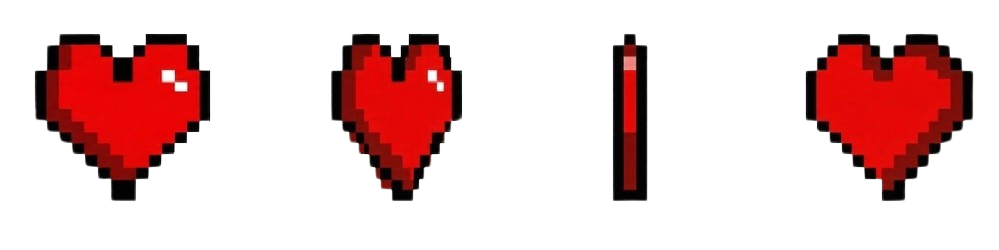
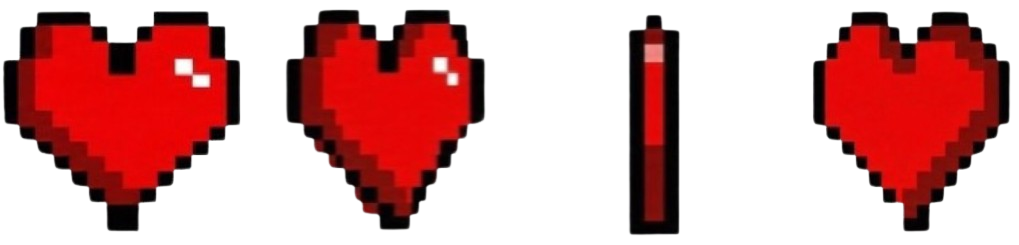
rescaling hp size

diff --git a/Douner/item.c b/Douner/item.c
@@ -5,20 +5,51 @@
 // 1. Data-Driven Configuration: Everything about an item is defined here.
 // To add a new item, just add an entry to this table and an enum value.
 ItemTypeData itemTypes[ITEM_MAX_TYPE] = {
-    [ITEM_STAR] = { "star.png", NULL, 4, 0.4f, 0, 10, 120, NULL },
-    [ITEM_HP] = { "hp.png",   NULL, 4, 0.3f, 20, 0, 300, NULL }
+    [ITEM_STAR] = { "star.png", NULL, 4, 0.4f, 0, 10, 100, NULL },
+    [ITEM_HP] = { "hp.png",   NULL, 4, 0.2f, 20, 0, 200, NULL }
 };
 
 Item items[ITEM_MAX];
 extern long frames;
 
-// Private Effect Functions
+// --- EXPANDABILITY HELPERS ---
+
+// Stage-based spawn intervals (lower = more frequent)
+static int get_spawn_interval(ItemTypes type, int difficulty) {
+    switch (type) {
+    case ITEM_STAR:
+        if (difficulty >= 3) return 200;  // Very frequent in late game
+        if (difficulty == 2) return 150;
+        return 100; // Stage 1
+    case ITEM_HP:
+        if (difficulty >= 3) return 400; // Rare in late game
+        if (difficulty == 2) return 300;
+        return 200; // Standard
+    default: return 9999;
+    }
+}
+
+// Stage-based reward values
+static int get_item_value(ItemTypes type, int difficulty) {
+    switch (type) {
+    case ITEM_STAR:
+        if (difficulty == 1) return 15;
+        return 10; // Stage 2+ gives less per star
+    case ITEM_HP:
+        if (difficulty >= 3) return 10;
+        return 20; // Stage 1 & 2
+    default: return 0;
+    }
+}
+
+// --- EFFECT FUNCTIONS ---
+
 static void effect_star(Item* item, GameState* game, Player* player) {
-    game->score += itemTypes[item->type].scoreAmount;
+    game->score += get_item_value(ITEM_STAR, game->difficulty);
 }
 
 static void effect_hp(Item* item, GameState* game, Player* player) {
-    game->hp += itemTypes[item->type].hpAmount;
+    game->hp += get_item_value(ITEM_HP, game->difficulty);
     if (game->hp > 100.0f) game->hp = 100.0f;
 }
 
@@ -52,7 +83,7 @@ void spawn_item(ItemTypes type) {
             items[i].width = al_get_bitmap_width(data->sheet) / data->maxFrame;
             items[i].height = al_get_bitmap_height(data->sheet);
             items[i].x = SCREEN_WIDTH + 100;
-            items[i].y = 100 + rand() % 250;
+            items[i].y = 120 + rand() % 200;
             return;
         }
     }
@@ -78,19 +109,19 @@ void item_collision_check(GameState* game, Player* player) {
 }
 
 void item_update(GameState* game, Player* player) {
-    // Automatic Spawning based on data
+    // 1. Dynamic Spawning based on difficulty
     for (int i = 0; i < ITEM_MAX_TYPE; i++) {
-        if (frames > 0 && frames % itemTypes[i].spawnInterval == 0) {
+        int interval = get_spawn_interval((ItemTypes)i, game->difficulty);
+        if (frames > 0 && frames % interval == 0) {
             spawn_item((ItemTypes)i);
         }
     }
 
-    // Movement and Animation
+    // 2. Movement and Animation
     for (int i = 0; i < ITEM_MAX; i++) {
         if (!items[i].active) continue;
 
         items[i].x -= ITEM_SPEED;
-
         if (frames % ANIM_INTERVAL == 0) {
             items[i].frame = (items[i].frame + 1) % itemTypes[items[i].type].maxFrame;
         }
@@ -98,6 +129,7 @@ void item_update(GameState* game, Player* player) {
         if (items[i].x < -100) items[i].active = 0;
     }
 
+    // 3. Collision logic (calls the effect functions that use get_item_value)
     item_collision_check(game, player);
 }
 
@@ -124,5 +156,27 @@ void item_deinit() {
             al_destroy_bitmap(itemTypes[i].sheet);
             itemTypes[i].sheet = NULL;
         }
+    }
+}
+
+void draw_item_hitboxes() {
+    for (int i = 0; i < ITEM_MAX; i++) {
+        if (!items[i].active) continue;
+
+        ItemTypeData* data = &itemTypes[items[i].type];
+
+        // Calculate the same rectangle used in collision detection
+        float hit_x = items[i].x;
+        float hit_y = items[i].y;
+        float hit_w = items[i].width * data->scale;
+        float hit_h = items[i].height * data->scale;
+
+        // Draw red box
+        al_draw_rectangle(
+            hit_x, hit_y,
+            hit_x + hit_w, hit_y + hit_h,
+            al_map_rgb(255, 0, 0), // Red
+            2                      // Thickness
+        );
     }
 }

diff --git a/Douner/obstacle.c b/Douner/obstacle.c
@@ -260,6 +260,36 @@ void DrawObstaclesWithImage(GameState* game, Obstacle obs[], int size,
     }
 }
 
+
+// Internal helper for collision boxes
+Rect get_obstacle_hitbox(Obstacle* obs) {
+    Rect r;
+    r.x = obs->x;
+    r.y = obs->y;
+    r.w = obs->width;
+    r.h = obs->height;
+
+    // Optional: Shrink the hitbox slightly for "fairer" gameplay
+    // r.x += 5; r.w -= 10;
+    return r;
+}
+
+// 1. Debug Hitbox Drawing
+void draw_obstacle_hitboxes(Obstacle obs[], int size) {
+    for (int i = 0; i < size; i++) {
+        if (!obs[i].is_active) continue;
+
+        Rect r = get_obstacle_hitbox(&obs[i]);
+
+        al_draw_rectangle(
+            r.x, r.y,
+            r.x + r.w, r.y + r.h,
+            al_map_rgb(255, 0, 0), // Red
+            2
+        );
+    }
+}
+
 void obstacle_collision_check(Player* player, Obstacle obs[], int size, GameState* game, ALLEGRO_SAMPLE* sfx_hit)
 {
     if (player->hurtTimer > 0 || player->state == PLAYER_DEATH) return;

diff --git a/Douner/Main.c b/Douner/Main.c
@@ -363,6 +363,10 @@ int main() {
                 //debug
                 //draw_player_hitbox(&player);
                 item_draw();
+                draw_player_hitbox(&player);
+                draw_obstacle_hitboxes(obs_pool, MAX_OBS);
+
+                draw_item_hitboxes();
                 hud_draw(&game);
                 hud_draw_popup();
                 break;

diff --git a/Douner/item.h b/Douner/item.h
@@ -46,4 +46,6 @@ void item_draw();
 void item_deinit();
 void spawn_item(ItemTypes type);
 
+void draw_item_hitboxes();
+
 #endif
